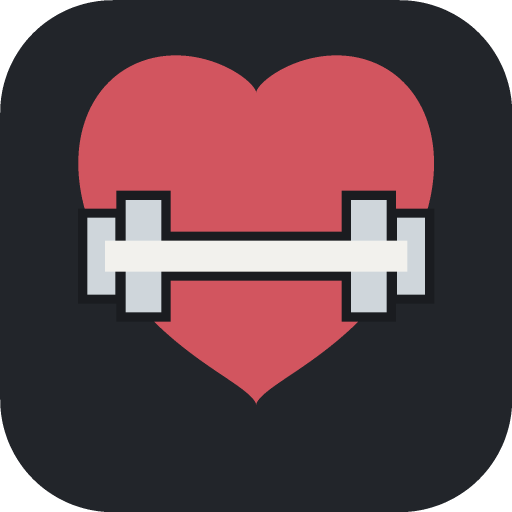
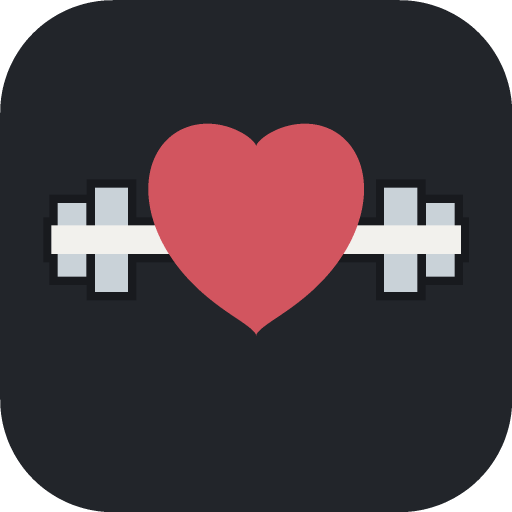
Kuvake: vaakasuora levytanko sydamen lapi
Sydan pienempi ja keskitetty, tanko vaakasuorassa ja sydamen takana,
joten vain tangon paat ja levyt nakyvat sivuilta. Levyt mahtuvat
maskable-kuvakkeen turva-alueelle. Service workerin valimuistiversio
nostettu.

Claude-Session: https://claude.ai/code/session_01XDPbLi4Mbwr2jt8JQsXZV4

Changed region(s): [[0.0938, 0.0938, 0.9062, 0.7812]]

diff --git a/sw.js b/sw.js
@@ -1,7 +1,7 @@
 /* Saliohjelma – service worker.
    Sovellus toimii ilman verkkoa ensimmäisen latauksen jälkeen.
    Versionumeroa nostamalla vanha välimuisti korvautuu. */
-const CACHE = 'saliohjelma-v5.5.1';
+const CACHE = 'saliohjelma-v5.5.2';
 const SHELL = ['./', './index.html', './manifest.json', './icon-192.png', './icon-512.png', './icon-180.png'];
 
 self.addEventListener('install', function(e){
